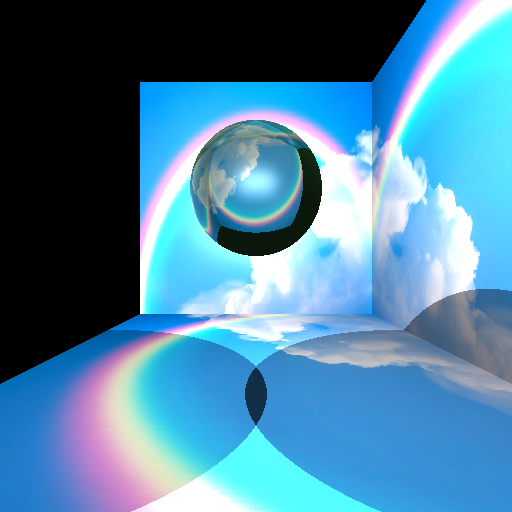
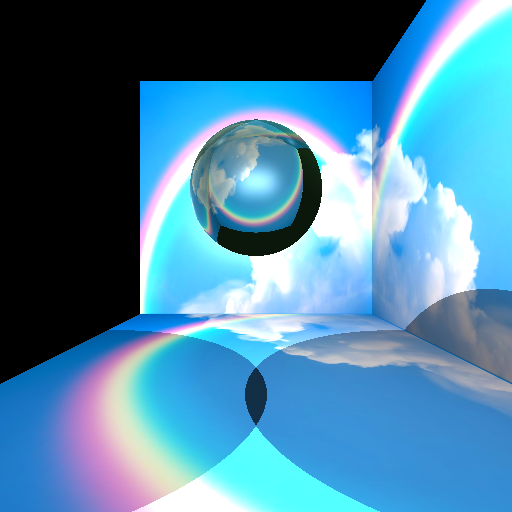
Implemented supersampling with flag -s=X, implemented SpotLight and anti-aliased Textures

diff --git a/src/scene/light.rs b/src/scene/light.rs
@@ -1,6 +1,4 @@
-use std::{
-    ops::{AddAssign, MulAssign},
-};
+use std::ops::{AddAssign, MulAssign};
 
 use serde::Deserialize;
 
@@ -50,13 +48,55 @@ impl MulAssign<&Phong> for LightIntensity {
     }
 }
 
-fn get_color_from_textures(texture_information: &Texture, texture_coordinate: &Vec3) -> Color {
-    let x_converted = (f32::floor(texture_coordinate.x() * texture_information.width) as isize)
-        .rem_euclid(texture_information.width as isize) as usize;
-    let y_converted = (f32::floor(texture_coordinate.y() * texture_information.height) as isize)
-        .rem_euclid(texture_information.height as isize) as usize;
+impl MulAssign<&f32> for LightIntensity {
+    fn mul_assign(&mut self, rhs: &f32) {
+        self.ambient *= &rhs;
+        self.diffuse *= &rhs;
+        self.specular *= &rhs;
+    }
+}
 
-    texture_information.texture_pixels[(texture_information.width as usize * y_converted) + x_converted]
+fn get_color_from_textures(texture_information: &Texture, texture_coordinate: &Vec3) -> Color {
+    let antialiasing_enabled = true;
+    if antialiasing_enabled {
+        let x: f32 = texture_coordinate.x();
+        let y = texture_coordinate.y();
+
+        let x_floor = f32::floor(x * texture_information.width as f32) as isize;
+        let y_floor = f32::floor(y * texture_information.height as f32) as isize;
+
+        let x_frac = x * texture_information.width as f32 - x_floor as f32;
+        let y_frac = y * texture_information.height as f32 - y_floor as f32;
+
+        let x1 = (x_floor as usize).rem_euclid(texture_information.width as usize);
+        let y1 = (y_floor as usize).rem_euclid(texture_information.height as usize);
+
+        let x2 = ((x_floor + 1) as usize).rem_euclid(texture_information.width as usize);
+        let y2 = ((y_floor + 1) as usize).rem_euclid(texture_information.height as usize);
+
+        let color00 =
+            texture_information.texture_pixels[texture_information.width as usize * y1 + x1];
+        let color10 =
+            texture_information.texture_pixels[texture_information.width as usize * y1 + x2];
+        let color01 =
+            texture_information.texture_pixels[texture_information.width as usize * y2 + x1];
+        let color11 =
+            texture_information.texture_pixels[texture_information.width as usize * y2 + x2];
+
+        let color_top = &(&color00 * &(1.0 - x_frac)) + &(&color10 * &x_frac);
+        let color_bottom = &(&color01 * &(1.0 - x_frac)) + &(&color11 * &x_frac);
+
+        &(&color_top * &(1.0 - y_frac)) + &(&color_bottom * &y_frac)
+    } else {
+        // Former implementation without anti-aliasing and interpolation
+        let x_converted = (f32::floor(texture_coordinate.x() * texture_information.width) as isize)
+            .rem_euclid(texture_information.width as isize) as usize;
+        let y_converted = (f32::floor(texture_coordinate.y() * texture_information.height) as isize)
+            .rem_euclid(texture_information.height as isize) as usize;
+
+        texture_information.texture_pixels
+            [(texture_information.width as usize * y_converted) + x_converted]
+    }
 }
 
 pub trait Light {
@@ -75,8 +115,11 @@ impl Light for AmbientLight {
         let mut light_intesity = LightIntensity::new();
 
         let color = if hit_record.material.get_texture_information().is_some() {
-            get_color_from_textures(&hit_record.material.get_texture_information().unwrap(), &hit_record.texture_coordinate.unwrap())
-        } else{
+            get_color_from_textures(
+                &hit_record.material.get_texture_information().unwrap(),
+                &hit_record.texture_coordinate.unwrap(),
+            )
+        } else {
             hit_record.material.get_color()
         };
 
@@ -134,8 +177,11 @@ impl Light for ParallelLight {
         let mut light_intensity = LightIntensity::new();
 
         let color = if hit_record.material.get_texture_information().is_some() {
-            get_color_from_textures(&hit_record.material.get_texture_information().unwrap(), &hit_record.texture_coordinate.unwrap())
-        } else{
+            get_color_from_textures(
+                &hit_record.material.get_texture_information().unwrap(),
+                &hit_record.texture_coordinate.unwrap(),
+            )
+        } else {
             hit_record.material.get_color()
         };
 
@@ -189,8 +235,11 @@ impl Light for PointLight {
         let mut light_intensity = LightIntensity::new();
 
         let color = if hit_record.material.get_texture_information().is_some() {
-            get_color_from_textures(&hit_record.material.get_texture_information().unwrap(), &hit_record.texture_coordinate.unwrap())
-        } else{
+            get_color_from_textures(
+                &hit_record.material.get_texture_information().unwrap(),
+                &hit_record.texture_coordinate.unwrap(),
+            )
+        } else {
             hit_record.material.get_color()
         };
 
@@ -232,7 +281,6 @@ impl Light for PointLight {
     }
 }
 
-#[allow(dead_code)]
 #[derive(Deserialize)]
 struct SpotLight {
     #[serde(deserialize_with = "deserialize_color")]
@@ -241,22 +289,98 @@ struct SpotLight {
     position: Point,
     #[serde(deserialize_with = "deserialize_vector")]
     direction: Vec3,
+    #[serde(rename = "falloff")]
     fall_off: FallOff,
 }
 
 impl Light for SpotLight {
-    fn calculate_light_intensities(&self, _ray: &Ray, _hit_record: &HitRecord) -> LightIntensity {
-        // Not necessary for lab3a
-        LightIntensity::new()
+    fn calculate_light_intensities(&self, ray: &Ray, hit_record: &HitRecord) -> LightIntensity {
+        let mut light_intensity = LightIntensity::new();
+
+        let color = if hit_record.material.get_texture_information().is_some() {
+            get_color_from_textures(
+                &hit_record.material.get_texture_information().unwrap(),
+                &hit_record.texture_coordinate.unwrap(),
+            )
+        } else {
+            hit_record.material.get_color()
+        };
+
+        let incident_light_direction = (-&(&self.position - &hit_record.point)).unit_vector();
+        let incident_angle = incident_light_direction
+            .dot(&self.direction.unit_vector())
+            .acos();
+
+        if incident_angle > self.fall_off.alpha2.to_radians() {
+            return light_intensity;
+        } else if incident_angle >= 0.0 && incident_angle <= self.fall_off.alpha1.to_radians() {
+            // with angle between zero and angle1, the light should be just like a point light
+
+            // Calculate Diffuse
+            let light_vector = (&self.position - &hit_record.point).unit_vector();
+            let intensity = hit_record.normal.dot(&light_vector).max(0.0);
+            let diffuse_intensity = &(&color * &self.color) * &intensity;
+
+            // Calculate Specular
+            //r = 2(n ⋅ l)n – l
+            let reflection_vector = (&(&(&2.0 * &(hit_record.normal.dot(&light_vector)))
+                * &hit_record.normal)
+                - &light_vector)
+                .unit_vector();
+
+            let eye_vector = -&ray.direction.unit_vector();
+            let specular_intensity = &(eye_vector
+                .dot(&reflection_vector)
+                .max(0.0)
+                .powf(hit_record.material.get_phong().exponent))
+                * &self.color;
+            light_intensity.diffuse = diffuse_intensity;
+            light_intensity.specular = specular_intensity;
+            return light_intensity;
+        } else {
+            let light_vector = (&self.position - &hit_record.point).unit_vector();
+            let intensity = hit_record.normal.dot(&light_vector).max(0.0);
+            let diffuse_intensity = &(&color * &self.color) * &intensity;
+
+            // Calculate Specular
+            //r = 2(n ⋅ l)n – l
+            let reflection_vector = (&(&(&2.0 * &(hit_record.normal.dot(&light_vector)))
+                * &hit_record.normal)
+                - &light_vector)
+                .unit_vector();
+
+            let eye_vector = -&ray.direction.unit_vector();
+            let specular_intensity = &(eye_vector
+                .dot(&reflection_vector)
+                .max(0.0)
+                .powf(hit_record.material.get_phong().exponent))
+                * &self.color;
+            light_intensity.diffuse = diffuse_intensity;
+            light_intensity.specular = specular_intensity;
+
+            let interpolation_factor = 1.0
+                - ((incident_angle - self.fall_off.alpha1.to_radians())
+                    / (self.fall_off.alpha2.to_radians() - self.fall_off.alpha1.to_radians()))
+                .clamp(0.0, 1.0);
+
+            light_intensity *= &interpolation_factor;
+            light_intensity
+        }
     }
 
-    fn check_if_in_shadow(&self, _hit_record: &HitRecord, _surfaces: &HittableList) -> bool {
-        // Not necessary for lab3a
-        false
+    fn check_if_in_shadow(&self, hit_record: &HitRecord, surfaces: &HittableList) -> bool {
+        let light_vector = (&self.position - &hit_record.point).unit_vector();
+        surfaces.shadow_check(
+            &Ray {
+                origin: hit_record.point,
+                direction: light_vector,
+            },
+            0.00001, // offset prevent intersection with object itself
+            f32::INFINITY,
+        )
     }
 }
 
-#[allow(dead_code)]
 #[derive(Deserialize)]
 struct FallOff {
     #[serde(rename = "@alpha1")]
@@ -294,6 +418,7 @@ enum LightEnum {
         position: Point,
         #[serde(deserialize_with = "deserialize_vector")]
         direction: Vec3,
+        #[serde(rename = "falloff")]
         fall_off: FallOff,
     },
 }

diff --git a/src/main.rs b/src/main.rs
@@ -2,7 +2,7 @@ mod scene;
 mod tracer;
 mod utils;
 
-use std::f32::INFINITY;
+use std::{env, f32::INFINITY};
 
 use indicatif::{ProgressBar, ProgressStyle};
 use scene::scene::Scene;
@@ -14,6 +14,9 @@ use utils::{
     color_utility, file_loader, png_creator,
     vec3::{Color, Vec3},
 };
+
+use rand::distributions::Distribution;
+use rand::distributions::Uniform;
 
 fn ray_color(ray: &Ray, scene: &Scene, current_bounce_number: usize) -> Color {
     let mut hit_record = HitRecord::new();
@@ -81,23 +84,34 @@ fn refract(incident: &Vec3, normal: &Vec3, hit_record: &HitRecord) -> Vec3 {
         cosine = -cosine;
         1.0 / hit_record.material.get_refraction().iof
     } else {
-        normal_normalized = -&normal_normalized; 
+        normal_normalized = -&normal_normalized;
         hit_record.material.get_refraction().iof
     };
 
     let pre_sqrt_check = 1.0 - eta.powi(2) * (1.0 - cosine.powi(2));
 
     if pre_sqrt_check < 0.0 {
-        return reflect(&incident, &normal)
+        return reflect(&incident, &normal);
     }
 
     /*(&(&eta * &(&incident_normalized + &(&normal_normalized * &cosine)))
-        - &(&normal_normalized * &f32::sqrt(pre_sqrt_check))).unit_vector()*/
+    - &(&normal_normalized * &f32::sqrt(pre_sqrt_check))).unit_vector()*/
 
-    &(&eta * &incident_normalized) + &(&(eta * cosine - f32::sqrt(pre_sqrt_check)) * &normal_normalized)
+    &(&eta * &incident_normalized)
+        + &(&(eta * cosine - f32::sqrt(pre_sqrt_check)) * &normal_normalized)
 }
 
 fn main() {
+    let mut sample_size: Option<usize> = None;
+
+    for arg in env::args() {
+        if let Some(value) = arg.strip_prefix("-s=") {
+            if let Ok(size) = value.parse::<usize>() {
+                sample_size = Some(size);
+            }
+        }
+    }
+
     let scene = file_loader::load_and_deserialize_scene();
 
     let mut image_data = vec![];
@@ -113,14 +127,37 @@ fn main() {
             .expect("Failed to create progress style for progress bar"),
     );
 
-    for j in (0..scene.camera.resolution_vertical).rev() {
-        for i in 0..scene.camera.resolution_horizontal {
-            let ray = scene.camera.construct_ray(i as f64, j as f64);
-            let color: Color = ray_color(&ray, &scene, 0);
-            color_utility::to_png_color(&color, &mut image_data);
-            progress_bar.inc(1);
+    if sample_size.is_none() {
+        for j in (0..scene.camera.resolution_vertical).rev() {
+            for i in 0..scene.camera.resolution_horizontal {
+                let ray = scene.camera.construct_ray(i as f64, j as f64);
+                let color: Color = ray_color(&ray, &scene, 0);
+                color_utility::to_png_color(&color, &mut image_data, 1.0);
+                progress_bar.inc(1);
+            }
+        }
+    } else {
+        let mut rng = rand::thread_rng();
+        let uniform_sampler = Uniform::from(-0.5..=0.5);
+
+        for j in (0..scene.camera.resolution_vertical).rev() {
+            for i in 0..scene.camera.resolution_horizontal {
+                let mut color = Color::new();
+                for _ in 0..sample_size.unwrap() {
+                    let ray = scene.camera.construct_ray(
+                        i as f64 + uniform_sampler.sample(&mut rng),
+                        j as f64 + uniform_sampler.sample(&mut rng),
+                    );
+                    color += &ray_color(&ray, &scene, 0);
+                }
+                color_utility::to_png_color(
+                    &color,
+                    &mut image_data,
+                    sample_size.unwrap() as f32,
+                );
+                progress_bar.inc(1);
+            }
         }
     }
-
     png_creator::create_png_at_path(&image_data, &scene);
 }

diff --git a/src/utils/color_utility.rs b/src/utils/color_utility.rs
@@ -1,10 +1,13 @@
 use super::vec3::Color;
 
-pub fn to_png_color(color: &Color, pixel_colors: &mut Vec<u8>) {
+pub fn to_png_color(color: &Color, pixel_colors: &mut Vec<u8>, sample_size: f32) {
+
+    let scaling_factor = 1.0 / sample_size;
+
     let temp_values: [u8; 3] = [
-        (color.r() * 255.999) as u8,
-        (color.g() * 255.999) as u8,
-        (color.b() * 255.999) as u8,
+        ((color.r() * scaling_factor).clamp(0.0, 0.999) * 255.999) as u8,
+        ((color.g() * scaling_factor).clamp(0.0, 0.999) * 255.999) as u8,
+        ((color.b() * scaling_factor).clamp(0.0, 0.999) * 255.999) as u8,
     ];
     pixel_colors.extend(&temp_values);
 }
